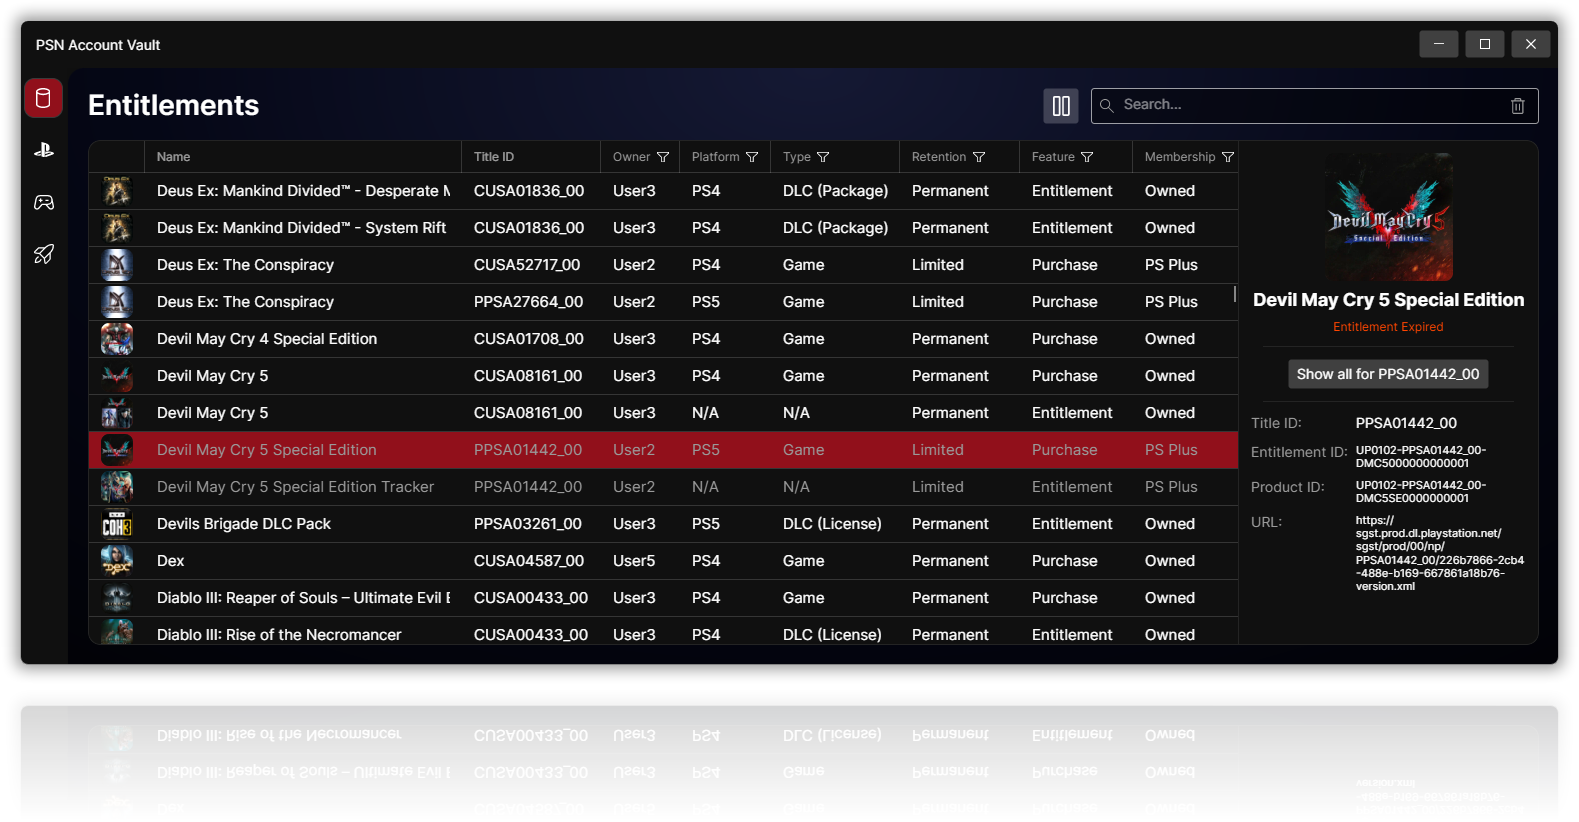
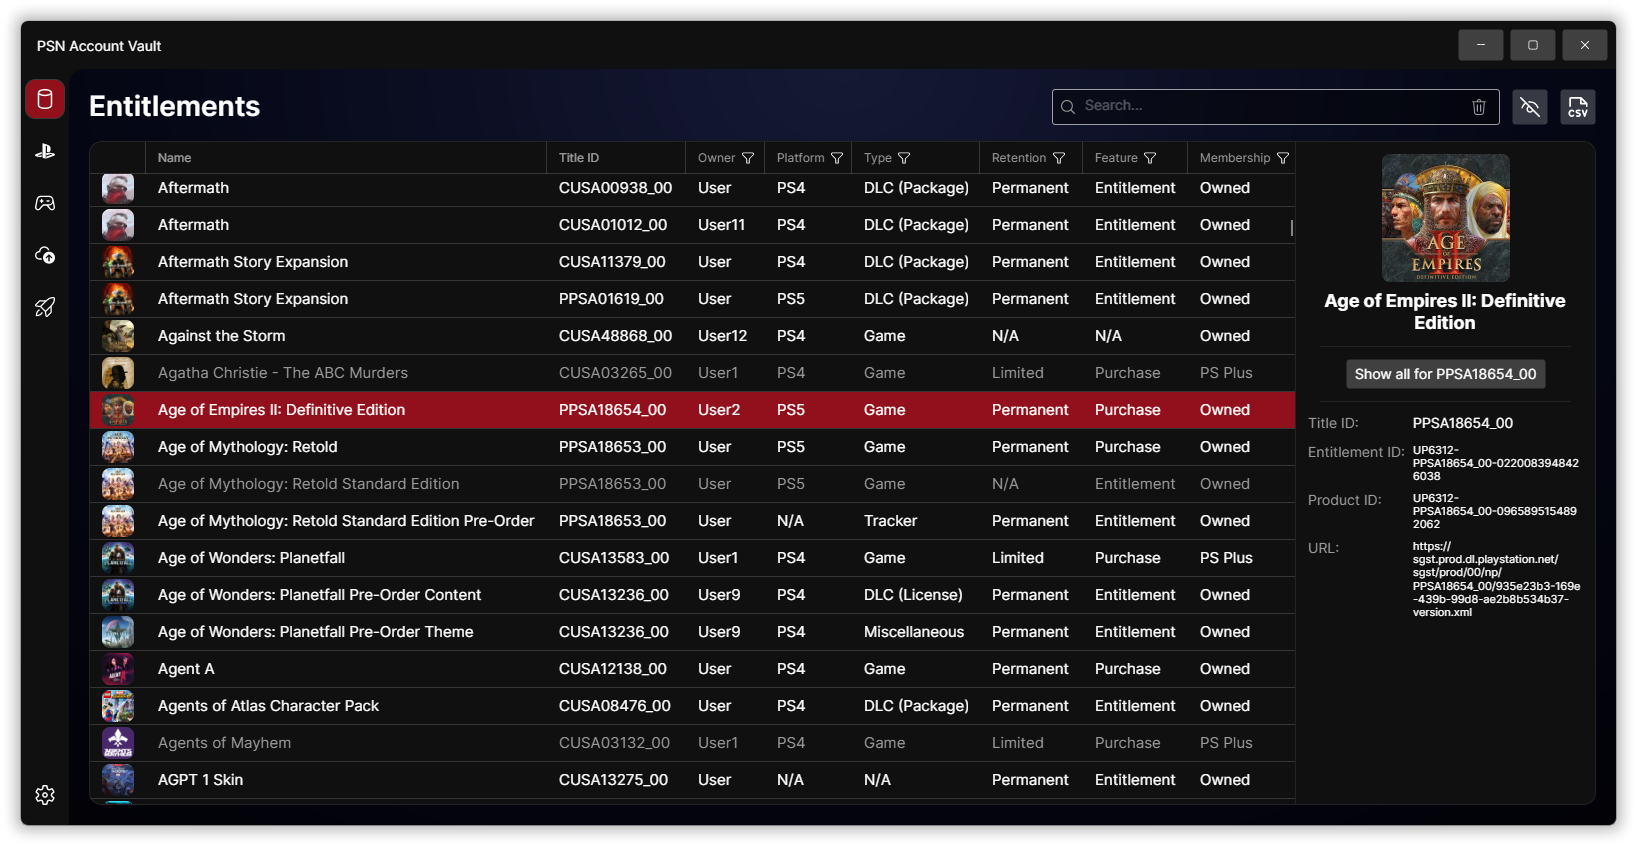
Update README.md

diff --git a/README.md b/README.md
@@ -13,6 +13,8 @@
 - **Entitlements** - synchronize and browse games purchased on your accounts. Never buy the same game twice again!
 - **Consoles** - import an entitlement database from your PS4/PS5 to get more detailed data about your purchases (e.g. DLCs, manifest URLs, expired entitlements, expiration dates, retention policies, membership).
 - **Patches** - collect patch manifest URLs for the entitlements and submit the ones not yet sent to [prosperopatches.com](https://prosperopatches.com).
+- **Synchronize with Backloggery** - easily add your digital games to the library to keep track of your gaming backlog.
+- **Cross-platform** - works on Windows, Linux and macOS (Apple Silicon/Intel).
 
 ### Entitlement data sources and limitations
 
@@ -95,13 +97,35 @@ Use a console row's `Synchronize` button and choose `Synchronize automatically v
 
 To update an existing console from an exported file, choose `Synchronize manually via file`.
 
+### Synchronization with Backloggery
+
+<div align="center">
+    <img src="./res/Screenshot-Backloggery.png" alt="Synchronize with Backloggery">
+</div>
+
+PSNav can add your PS4/PS5 digital games to your [Backloggery](https://backloggery.com) library.
+
+Only full games are included; DLCs, PS4 to PS5 upgrades, trials and PlayStation Plus games are skipped.
+
+1. Go to the `Synchronize with Backloggery` view by clicking the cloud icon in the left sidebar.
+2. Log in with your Backloggery username and password or paste the `log_token` cookie from your browser.
+    - Your password is used only to log in and is not saved. PSNav stores the session token.
+3. Click the search button to fetch your Backloggery library and compare it with your entitlements.
+    - Games not found on Backloggery are checked automatically.
+    - Games that may already be there (e.g. a physical copy, another platform or edition) are marked for manual review.
+4. Use the checklist icon to change the selection or right-click games to ignore them in future synchronizations.
+5. Click the pencil button to change a game's title, priority, status or Stealth Save before it is added.
+6. Click the upload button to add the selected games to Backloggery.
+
+Default priority, status, Stealth Save and how to handle games owned on both PS4 and PS5 can be changed in `Settings`, where you can also unlink your Backloggery account.
+
 ## Your data
 
 Everything is stored locally in a SQLite database named `PSNav.db` inside the `PSNav` folder of your application data directory (`%APPDATA%\PSNav` on Windows).
 
 Images for your entitlements are downloaded and stored in the database during synchronization, for a smoother browsing experience at the cost of a larger database and a slower first synchronization.
 
-Account NPSSO tokens are stored in that database as plain text, so keep the file private and don't share it.
+Account NPSSO tokens and Backloggery cookies are stored in that database as plain text, so keep the file private and don't share it.
 
 ## Building from source
 
